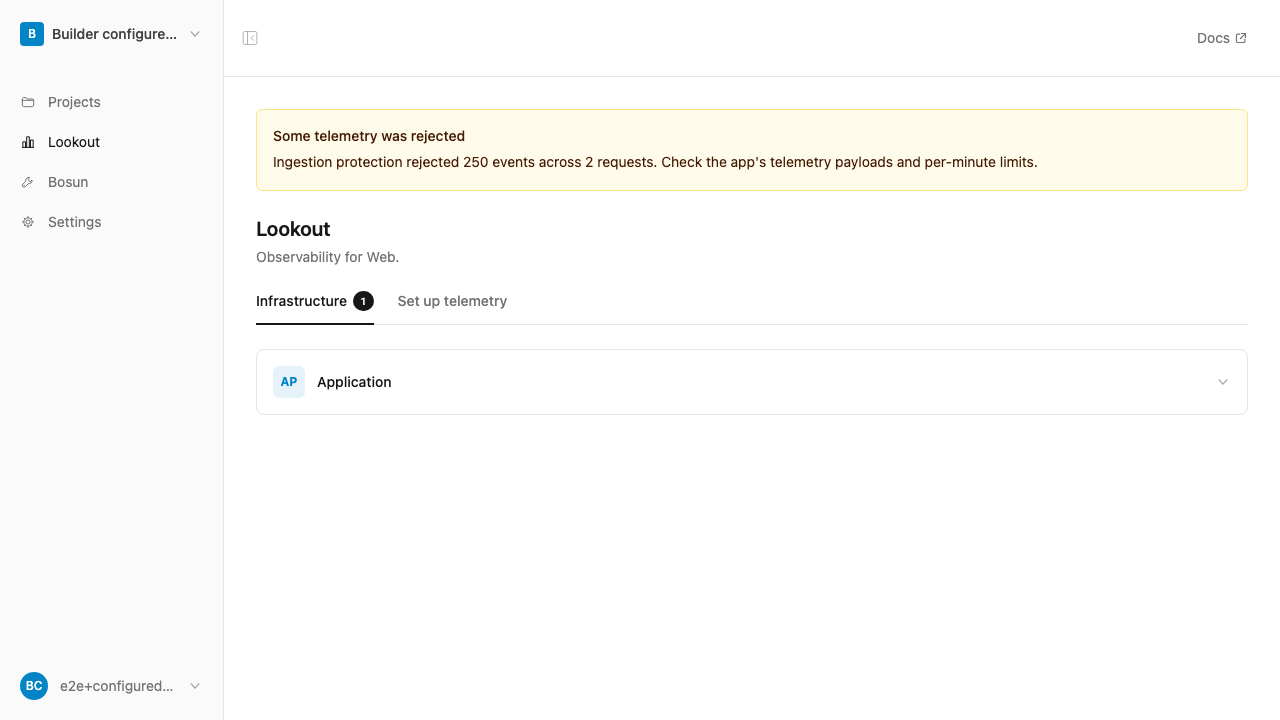
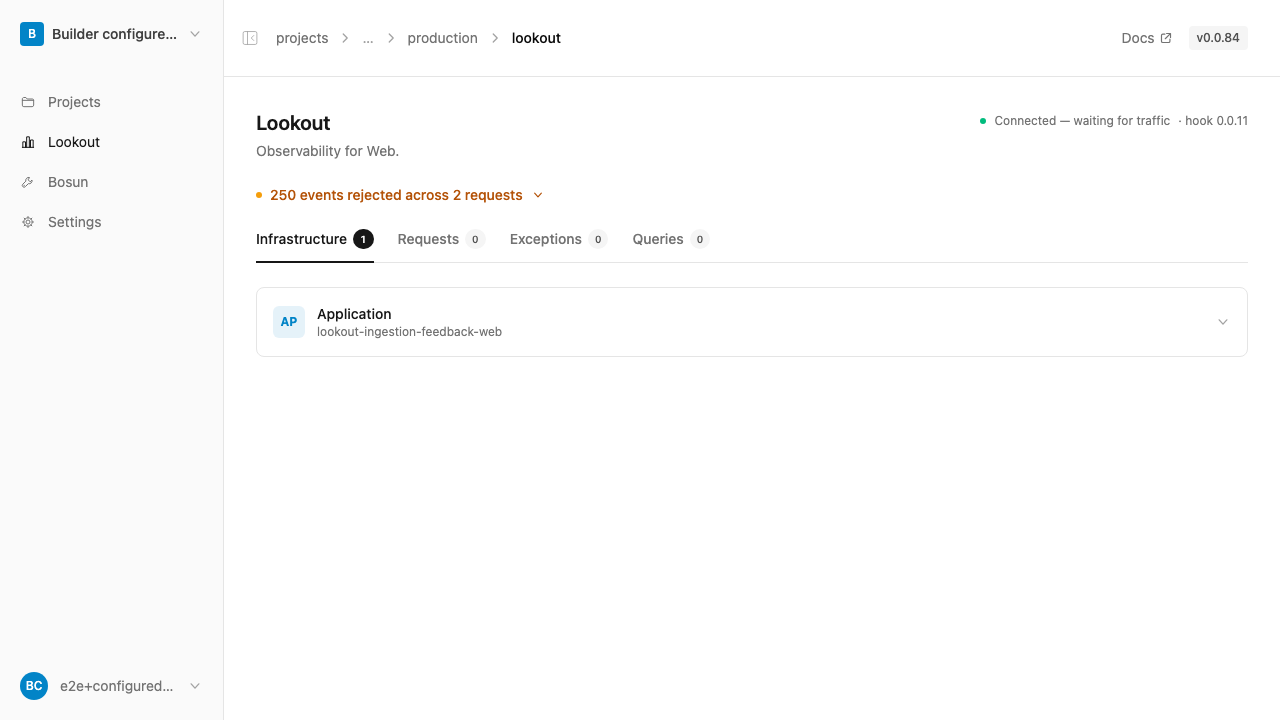
refactor(lookout): quiet telemetry status callouts

diff --git a/assets/js/pages/projects/lookout.vue b/assets/js/pages/projects/lookout.vue
@@ -1,6 +1,5 @@
 <script setup>
 import AppNavbarVersion from '@/components/AppNavbarVersion.vue'
-import Alert from '@/components/ui/alert/Alert.vue'
 import SidebarOpen from '@/components/ui/icons/SidebarOpen.vue'
 import SidebarClose from '@/components/ui/icons/SidebarClose.vue'
 import ExternalLink from '@/components/ui/icons/ExternalLink.vue'
@@ -235,17 +234,12 @@ const telemetryNotice = computed(() => {
   return notices[status.state] || null
 })
 
+const telemetryConnected = computed(() =>
+  ['connected_quiet', 'receiving'].includes(effectiveTelemetryState.value.state)
+)
+
 const telemetryNoticeClasses = computed(() => {
   const tone = telemetryNotice.value?.tone
-  if (tone === 'success') {
-    return {
-      shell:
-        'border-emerald-200 bg-emerald-50/70 dark:border-emerald-900/70 dark:bg-emerald-950/20',
-      dot: 'bg-emerald-500',
-      title: 'text-emerald-950 dark:text-emerald-100',
-      detail: 'text-emerald-800/80 dark:text-emerald-300/80'
-    }
-  }
   if (tone === 'warning') {
     return {
       shell:
@@ -624,35 +618,74 @@ async function copyToken() {
 
     <!-- Content -->
     <div class="flex-1 overflow-y-auto px-4 py-6 sm:px-8 sm:py-8">
-      <Alert
-        v-if="ingestion?.rejectedRequests"
-        role="status"
-        class="mx-auto mb-6 max-w-5xl border border-amber-200 bg-amber-50 text-amber-950 dark:border-amber-900/60 dark:bg-amber-950/30 dark:text-amber-100"
-      >
-        <p class="font-medium">Some telemetry was rejected</p>
-        <p class="mt-1 leading-6">
-          Ingestion protection rejected {{ ingestion.rejectedEvents }} events
-          across {{ ingestion.rejectedRequests }} requests. Check the app's
-          telemetry payloads and per-minute limits.
-        </p>
-      </Alert>
       <Tabs
         v-model="activeTab"
         aria-label="Lookout sections"
         class="mx-auto max-w-5xl"
       >
         <!-- Header -->
-        <div class="mb-6">
-          <h1 class="text-xl font-semibold text-gray-900 dark:text-white">
-            Lookout
-          </h1>
-          <p class="mt-1 text-sm text-gray-500 dark:text-gray-400">
-            Observability for {{ appName }}.
+        <div class="mb-6 flex flex-wrap items-start justify-between gap-3">
+          <div>
+            <h1 class="text-xl font-semibold text-gray-900 dark:text-white">
+              Lookout
+            </h1>
+            <p class="mt-1 text-sm text-gray-500 dark:text-gray-400">
+              Observability for {{ appName }}.
+            </p>
+          </div>
+          <p
+            v-if="telemetryConnected"
+            role="status"
+            class="flex items-center gap-2 pt-1 text-xs text-gray-500 dark:text-gray-400"
+          >
+            <span
+              aria-hidden="true"
+              class="h-1.5 w-1.5 shrink-0 rounded-full bg-emerald-500"
+            ></span>
+            <span>{{ telemetryNotice.title }}</span>
+            <span v-if="effectiveTelemetryState.hookVersion">
+              · hook {{ effectiveTelemetryState.hookVersion }}
+            </span>
           </p>
         </div>
 
         <div
-          v-if="telemetryNotice"
+          v-if="ingestion?.rejectedRequests"
+          role="status"
+          data-test="lookout-ingestion-status"
+          class="mb-6 text-sm text-amber-700 dark:text-amber-300"
+        >
+          <details class="group">
+            <summary
+              class="flex cursor-pointer list-none items-center gap-2 font-medium focus-visible:rounded-sm focus-visible:outline-2 focus-visible:outline-offset-2"
+            >
+              <span
+                aria-hidden="true"
+                class="h-1.5 w-1.5 shrink-0 rounded-full bg-amber-500"
+              ></span>
+              <span>
+                {{ Number(ingestion.rejectedEvents).toLocaleString() }} events
+                rejected across
+                {{ Number(ingestion.rejectedRequests).toLocaleString() }}
+                requests
+              </span>
+              <ChevronDown
+                aria-hidden="true"
+                class="h-3.5 w-3.5 shrink-0 transition-transform group-open:rotate-180"
+                stroke-width="2"
+              />
+            </summary>
+            <p
+              class="ml-3.5 mt-2 text-xs leading-5 text-gray-500 dark:text-gray-400"
+            >
+              Ingestion protection rejected these events. Check the app's
+              telemetry payloads and per-minute limits.
+            </p>
+          </details>
+        </div>
+
+        <div
+          v-if="telemetryNotice && !telemetryConnected"
           :class="telemetryNoticeClasses.shell"
           class="mb-6 flex items-start gap-3 rounded-lg border px-4 py-3"
         >

diff --git a/tests/e2e/pages/projects/lookout.test.js b/tests/e2e/pages/projects/lookout.test.js
@@ -184,8 +184,38 @@ test(
     }
   },
   async ({ sails, world, login, page, expect }) => {
+    const environment = world.current.environments.production
+    const app = world.current.apps.web
+    const deployment = await sails.models.deployment
+      .create({
+        status: 'running',
+        triggerType: 'manual',
+        startedAt: Date.now() - 60_000,
+        environment: environment.id,
+        app: app.id
+      })
+      .fetch()
+    await sails.models.app.updateOne({ id: app.id }).set({
+      currentDeployment: deployment.id,
+      status: 'running',
+      containerName: 'lookout-ingestion-feedback-web'
+    })
+    await sails.models.environment.updateOne({ id: environment.id }).set({
+      features: { 'sails-hook-slipway': { version: '^0.0.11' } }
+    })
+    await sails.models.telemetryconnection.create({
+      app: String(app.id),
+      environment: String(environment.id),
+      deployment: String(deployment.id),
+      hookVersion: '0.0.11',
+      protocolVersion: 1,
+      capabilities: { requests: true, exceptions: true, queries: true },
+      enabled: true,
+      startedAt: Date.now() - 60_000,
+      lastSeenAt: Date.now()
+    })
     await sails.models.telemetryingestionbudget.create({
-      environment: String(world.current.environments.production.id),
+      environment: String(environment.id),
       rejectedEvents: 250,
       rejectedRequests: 2
     })
@@ -193,20 +223,30 @@ test(
       password: world.current.auth.genesisUserPassword
     })
     await page.goto('/projects/ingestion-feedback/lookout')
-    await expect(page).toSee(
-      'Ingestion protection rejected 250 events across 2 requests.'
+    const ingestionStatus = page.raw.locator(
+      '[data-test="lookout-ingestion-status"]'
     )
-    await expect(
-      page.raw
-        .getByRole('status')
-        .filter({ hasText: 'Some telemetry was rejected' })
-    ).toHaveAttribute('data-slot', 'alert')
+    await expect(ingestionStatus).toHaveAttribute('role', 'status')
+    await expect(ingestionStatus).toContainText(
+      '250 events rejected across 2 requests'
+    )
+    await expect(page).toSee('Connected — waiting for traffic')
     fs.mkdirSync('.github/screenshots/audit-telemetry-limits', {
       recursive: true
     })
     await page.screenshot(
       '.github/screenshots/audit-telemetry-limits/rejections.png',
       { fullPage: true, animations: 'disabled' }
+    )
+    await page.inDarkMode()
+    await page.screenshot('.tmp/lookout-rejections-dark.png', {
+      fullPage: true,
+      animations: 'disabled'
+    })
+    await ingestionStatus.locator('summary').focus()
+    await ingestionStatus.locator('summary').press('Enter')
+    await expect(ingestionStatus).toContainText(
+      "Check the app's telemetry payloads and per-minute limits."
     )
   }
 )
